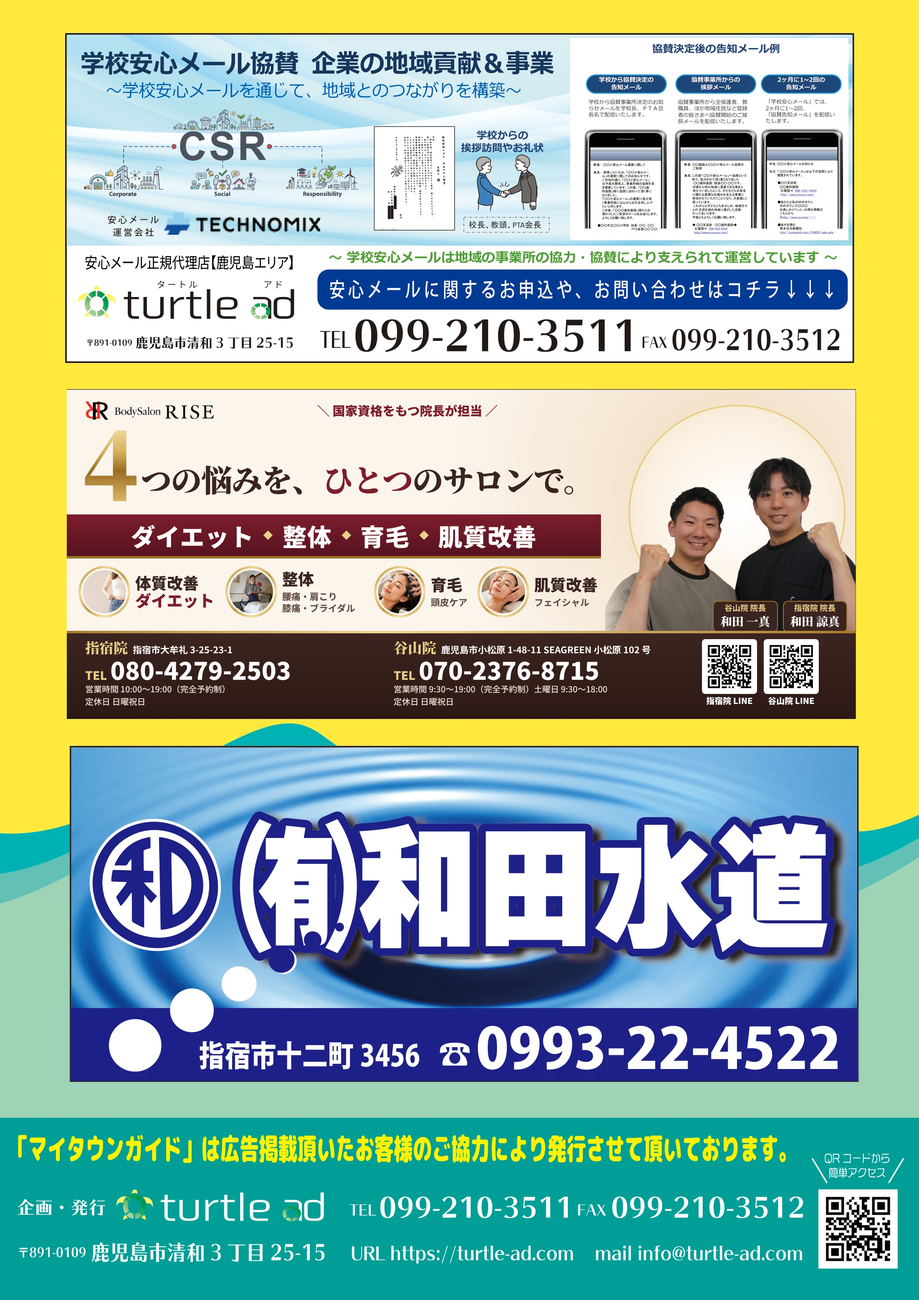
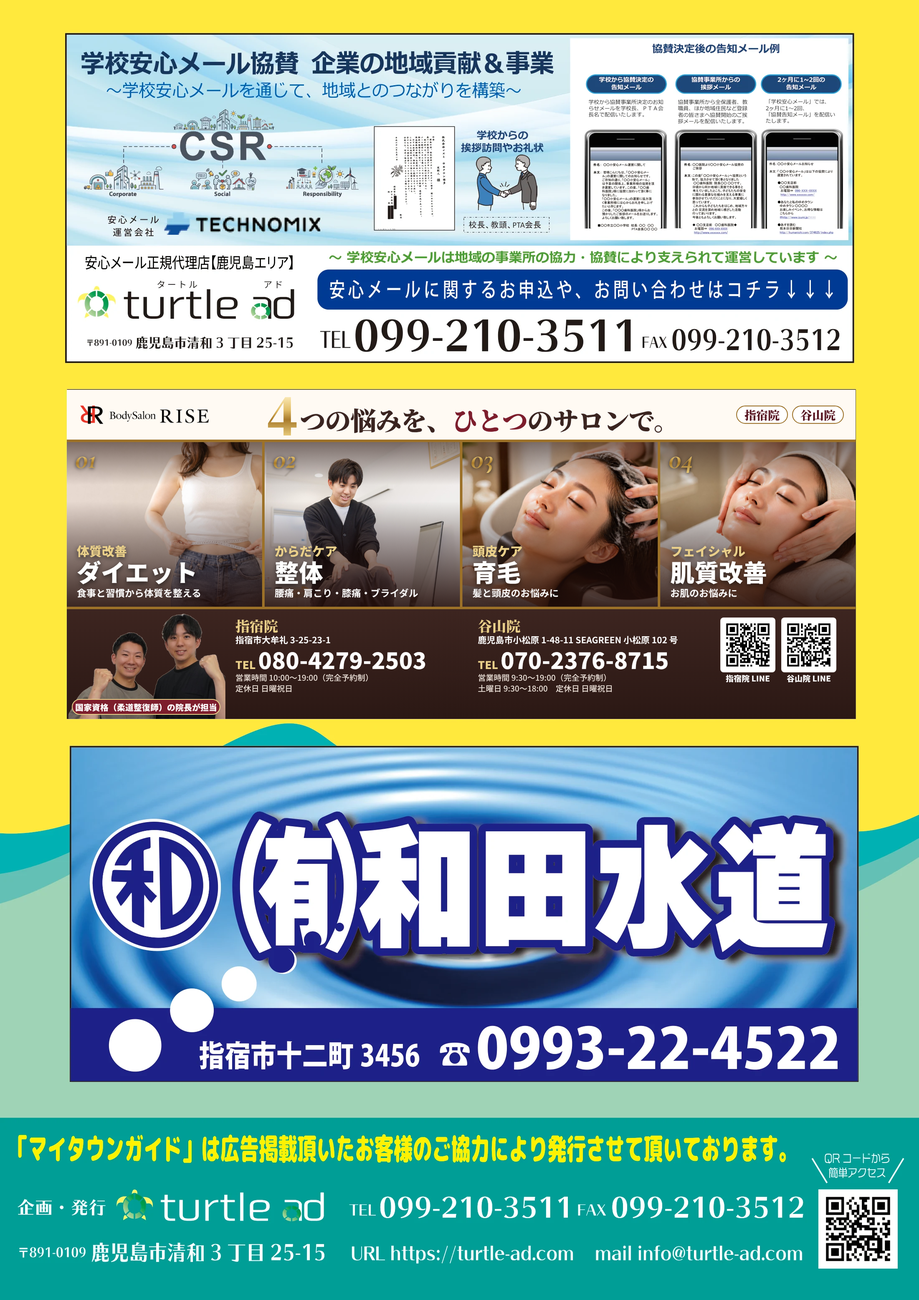
ライズ様：1ページ広告を4本柱の4分割＋中央バッジ＋院長紹介に組み替え、裏表紙の帯も写真4マスの形に
- 上半分：2×2の写真いっぱいの4分割、大きな番号と太い見出し、中央に「4つの悩みを、ひとつのサロンで。」の丸バッジ
- 中段：院長2人の写真、名前・担当院・柔道整復師・ひと言、施術中の写真
- 帯：横並びの写真4マス、余白を詰めた
- 比較画像・確認事項を更新

Claude-Session: https://claude.ai/code/session_01AEUD4z4Xri7e87iKXPW3R9

Changed region(s): [[0.0618, 0.2805, 0.9577, 0.5611]]

diff --git a/sites/rise/mytownguide/ad-1page.html b/sites/rise/mytownguide/ad-1page.html
@@ -3,134 +3,127 @@
 <head>
 <meta charset="utf-8">
 <title>RISE 1ページ広告</title>
-<link href="https://fonts.googleapis.com/css2?family=Noto+Sans+JP:wght@500;700;900&family=Noto+Serif+JP:wght@600;900&family=Cormorant+Garamond:ital,wght@1,600&display=block" rel="stylesheet">
+<link href="https://fonts.googleapis.com/css2?family=Noto+Sans+JP:wght@500;700;900&family=Noto+Serif+JP:wght@600;900&family=Cormorant+Garamond:ital,wght@1,600;1,700&display=block" rel="stylesheet">
 <style>
 /* 1100 x 1556 px（A4比率）。deviceScaleFactor 2 で 2200 x 3112 に書き出し */
-:root{--wine:#7d1d2c;--wine-d:#561320;--brown:#3a2420;--ink:#2e1e1a;--gold1:#9c7128;--gold2:#e9cf8a;--gold3:#fff3cf;--cream:#fbf5ec;--cream2:#f3e6d3}
+:root{--wine:#7d1d2c;--wine-d:#561320;--brown:#3a2420;--ink:#2e1e1a;--gold1:#9c7128;--gold2:#e9cf8a;--cream:#fbf5ec;--cream2:#f3e6d3}
 *{box-sizing:border-box;margin:0;padding:0}
 body{width:1100px;height:1556px;overflow:hidden;position:relative;background:var(--cream);font-family:"Noto Sans JP",sans-serif;color:var(--ink)}
-.serif{font-family:"Noto Serif JP",serif}
 .goldbg{background:linear-gradient(135deg,#a77a2c 0%,#f1d999 28%,#c39a48 52%,#f6e3a6 74%,#a77a2c 100%)}
-.goldtxt{background:linear-gradient(180deg,#f7e7b4 0%,#d8b25c 38%,#9a6c22 62%,#d9b867 100%);-webkit-background-clip:text;background-clip:text;color:transparent}
-
-/* 背景の飾り */
-.bgdeco{position:absolute;inset:0;z-index:0;
- background:radial-gradient(circle at 88% 14%,#f1dcc0 0,#f1dcc000 46%),radial-gradient(circle at 6% 52%,#f4e3cc 0,#f4e3cc00 36%)}
+.goldtxt{background:linear-gradient(180deg,#fff1c4 0%,#e3bf6a 38%,#a87a2a 62%,#e6c878 100%);-webkit-background-clip:text;background-clip:text;color:transparent}
 
 /* ヘッダー */
-.head{position:absolute;left:0;right:0;top:0;height:92px;display:flex;align-items:center;justify-content:space-between;padding:0 44px;z-index:3}
-.head img{height:40px;display:block}
-.inns{display:flex;gap:10px}
-.inns span{font-family:"Noto Serif JP",serif;font-weight:900;font-size:24px;color:var(--wine-d);border:2px solid var(--gold1);padding:3px 18px;border-radius:40px;background:#fffaf2}
-.head::after{content:"";position:absolute;left:44px;right:44px;bottom:0;height:2px;background:linear-gradient(90deg,transparent,var(--gold1) 12%,var(--gold2) 50%,var(--gold1) 88%,transparent)}
+.head{position:absolute;left:0;right:0;top:0;height:64px;display:flex;align-items:center;justify-content:space-between;padding:0 30px;background:#fffaf3}
+.head img{height:34px;display:block}
+.head .lead{font-weight:900;font-size:19px;color:var(--wine)}
+.inns{display:flex;gap:8px}
+.inns span{font-family:"Noto Serif JP",serif;font-weight:900;font-size:20px;color:var(--wine-d);border:2px solid var(--gold1);padding:1px 14px;border-radius:40px;background:#fff}
 
-/* ヒーロー */
-.hero{position:absolute;left:0;right:0;top:92px;height:520px;z-index:2}
-.lead{position:absolute;left:46px;top:34px;font-weight:900;font-size:27px;color:var(--wine);letter-spacing:.04em}
-.lead i{font-style:normal;color:var(--gold1);margin:0 6px}
-.h1{position:absolute;left:40px;top:78px;font-family:"Noto Serif JP",serif;font-weight:900;color:var(--brown);line-height:1}
-.h1 .l1{display:flex;align-items:flex-end;white-space:nowrap}
-.h1 .num{font-size:250px;line-height:.86;margin-right:4px;letter-spacing:-.02em;filter:drop-shadow(0 4px 0 #6b4a1a33)}
-.h1 .t1{font-size:68px;padding-bottom:18px;letter-spacing:-.01em}
-.h1 .l2{font-size:68px;margin-top:20px;white-space:nowrap;letter-spacing:-.02em}
-.h1 .l2 b{color:var(--wine)}
-.medals{position:absolute;left:44px;top:392px;display:flex;gap:14px}
-.medal{width:108px;height:108px;border-radius:50%;display:grid;place-items:center;text-align:center;position:relative;box-shadow:0 6px 14px rgba(90,60,20,.28)}
-.medal::before{content:"";position:absolute;inset:6px;border-radius:50%;border:2px solid #fff7dc;opacity:.9}
-.medal b{font-family:"Noto Serif JP",serif;font-weight:900;font-size:20px;line-height:1.25;color:#4a2a12}
-.medal b small{display:block;font-size:15px;font-weight:900}
-.staff{position:absolute;right:-4px;top:40px;width:560px;height:480px;overflow:hidden}
-.staff .ring{position:absolute;right:18px;top:20px;width:440px;height:440px;border-radius:50%;background:radial-gradient(circle,#fff 0,#fbf1e2 60%,#f0dcc0 100%);border:3px solid var(--gold2)}
-.staff img{position:absolute;right:-14px;bottom:-4px;width:560px;-webkit-mask-image:linear-gradient(90deg,transparent 0,#000 14%);mask-image:linear-gradient(90deg,transparent 0,#000 14%)}
-.names{position:absolute;right:26px;top:548px;display:flex;gap:12px;z-index:4}
-.names div{background:var(--brown);color:#fff;border-radius:10px;padding:6px 14px 7px;text-align:center;line-height:1.25;border:2px solid var(--gold1)}
-.names small{display:block;font-size:15px;font-weight:700;color:var(--gold2)}
-.names b{font-family:"Noto Serif JP",serif;font-size:25px}
+/* 4分割 */
+.grid{position:absolute;left:0;right:0;top:64px;height:700px;display:grid;grid-template-columns:1fr 1fr;grid-template-rows:1fr 1fr;gap:6px;background:var(--gold1);border-top:6px solid var(--gold1);border-bottom:6px solid var(--gold1)}
+.cell{position:relative;overflow:hidden}
+.cell img{position:absolute;inset:0;width:100%;height:100%;object-fit:cover}
+.cell::after{content:"";position:absolute;inset:0}
+.c1::after,.c2::after{background:linear-gradient(180deg,rgba(35,14,10,.82) 0%,rgba(35,14,10,.35) 38%,rgba(35,14,10,0) 60%)}
+.c3::after,.c4::after{background:linear-gradient(0deg,rgba(35,14,10,.85) 0%,rgba(35,14,10,.35) 40%,rgba(35,14,10,0) 62%)}
+.tx{position:absolute;z-index:2;color:#fff}
+.c1 .tx{left:26px;top:16px}.c2 .tx{right:26px;top:16px;text-align:right}
+.c3 .tx{left:26px;bottom:20px}.c4 .tx{right:26px;bottom:20px;text-align:right}
+.no{filter:drop-shadow(0 2px 3px rgba(0,0,0,.7));font-family:"Cormorant Garamond",serif;font-style:italic;font-weight:700;font-size:74px;line-height:.9;display:block}
+.tx h3{font-weight:900;font-size:54px;line-height:1.05;letter-spacing:-.01em;text-shadow:0 3px 10px rgba(0,0,0,.55)}
+.tx h3 small{display:block;font-size:30px;color:var(--gold2);margin-bottom:2px}
+.tx p{display:inline-block;margin-top:8px;background:var(--wine);color:#fff;font-weight:700;font-size:19px;line-height:1.3;padding:5px 14px;border-radius:30px;border:1.5px solid var(--gold2)}
+/* 中央バッジ */
+.badge{position:absolute;left:50%;top:417px;width:356px;height:356px;margin:-178px 0 0 -178px;border-radius:50%;z-index:5;padding:9px;box-shadow:0 10px 30px rgba(0,0,0,.45)}
+.badge .in{width:100%;height:100%;border-radius:50%;background:radial-gradient(circle at 50% 35%,#fffaf1 0,#fbf1e2 60%,#f2e0c6 100%);display:flex;flex-direction:column;align-items:center;justify-content:center;text-align:center;font-family:"Noto Serif JP",serif;font-weight:900;color:var(--brown);border:2px solid #fff6dc}
+.badge .r1{display:flex;align-items:flex-end;line-height:1}
+.badge .n4{font-size:150px;line-height:.82;margin-right:2px}
+.badge .t1{font-size:40px;padding-bottom:12px;letter-spacing:-.03em}
+.badge .t2{font-size:42px;line-height:1.15;margin-top:8px;letter-spacing:-.03em}
+.badge .t2 b{color:var(--wine)}
+.badge .t3{margin-top:10px;font-family:"Noto Sans JP";font-size:15px;font-weight:900;color:#fff;background:var(--wine);padding:3px 14px;border-radius:20px;letter-spacing:.04em}
 
 /* 4本柱の帯 */
-.band{position:absolute;left:0;right:0;top:612px;height:96px;z-index:3;display:flex;align-items:center;justify-content:center;background:linear-gradient(180deg,var(--wine) 0,var(--wine-d) 100%);box-shadow:0 6px 0 var(--gold1)}
-.band span{font-weight:900;font-size:60px;color:#fff;letter-spacing:.03em;text-shadow:0 3px 0 rgba(0,0,0,.25)}
-.band i{display:inline-block;width:14px;height:14px;background:var(--gold2);transform:rotate(45deg);margin:0 26px}
+.band{position:absolute;left:0;right:0;top:770px;height:66px;display:flex;align-items:center;justify-content:center;background:linear-gradient(180deg,var(--wine),var(--wine-d))}
+.band span{font-weight:900;font-size:42px;color:#fff;letter-spacing:.03em}
+.band i{display:inline-block;width:11px;height:11px;background:var(--gold2);transform:rotate(45deg);margin:0 22px}
 
-/* メニュー */
-.menu{position:absolute;left:30px;right:30px;top:728px;height:440px;z-index:2}
-.mtitle{text-align:center;font-family:"Noto Serif JP",serif;font-weight:900;font-size:30px;color:var(--brown);letter-spacing:.08em}
-.mtitle::before,.mtitle::after{content:"";display:inline-block;width:110px;height:2px;background:var(--gold1);vertical-align:middle;margin:0 18px}
-.mrow{display:grid;grid-template-columns:repeat(4,1fr);gap:14px;margin-top:20px}
-.m{text-align:center;position:relative}
-.m .ph{width:204px;height:204px;margin:0 auto;border-radius:50%;padding:7px;position:relative}
-.m .ph img{width:100%;height:100%;border-radius:50%;object-fit:cover;display:block;border:4px solid #fff}
-.m .no{position:absolute;left:8px;top:0;width:62px;height:62px;border-radius:50%;background:var(--wine);color:#fff;display:grid;place-items:center;font-family:"Cormorant Garamond",serif;font-style:italic;font-weight:600;font-size:34px;border:3px solid var(--gold2);z-index:2}
-.m h3{margin-top:10px;font-weight:900;font-size:41px;line-height:1.12;color:var(--brown);letter-spacing:-.01em}
-.m h3 em{font-style:normal;color:var(--wine)}
-.m p{min-width:200px;margin-top:8px;display:inline-block;font-weight:700;font-size:18px;line-height:1.35;color:#fff;background:var(--brown);padding:5px 14px;border-radius:30px}
+/* 施術する人 */
+.staffsec{position:absolute;left:0;right:0;top:836px;height:350px}
+.sttl{position:absolute;left:30px;top:14px;font-family:"Noto Serif JP",serif;font-weight:900;font-size:30px;color:var(--brown)}
+.sttl b{color:var(--wine)}
+.sttl small{font-family:"Noto Sans JP";font-size:17px;font-weight:900;color:#fff;background:var(--gold1);padding:2px 12px;border-radius:20px;margin-left:10px;vertical-align:6px}
+.photo2{position:absolute;left:0;top:56px;width:520px;height:294px;overflow:hidden}
+.photo2 .ring{position:absolute;left:46px;top:6px;width:430px;height:430px;border-radius:50%;background:radial-gradient(circle,#fff 0,#fbf1e2 60%,#f0dcc0 100%);border:3px solid var(--gold2)}
+.photo2 img.p{position:absolute;left:14px;bottom:-8px;width:500px;-webkit-mask-image:linear-gradient(90deg,transparent 0,#000 10%);mask-image:linear-gradient(90deg,transparent 0,#000 10%)}
+.medal{position:absolute;width:92px;height:92px;border-radius:50%;display:grid;place-items:center;text-align:center;box-shadow:0 5px 12px rgba(90,60,20,.3);z-index:3}
+.medal b{font-family:"Noto Serif JP",serif;font-weight:900;font-size:17px;line-height:1.2;color:#4a2a12}
+.medal b small{display:block;font-size:12.5px}
+.m1{left:22px;top:66px}
+.prof{position:absolute;left:520px;right:26px;top:58px;display:grid;grid-template-columns:1fr 1fr;gap:12px}
+.pc{background:#fff;border-radius:12px;border:2px solid var(--gold2);overflow:hidden;box-shadow:0 4px 12px rgba(60,30,20,.1)}
+.pc .ph{height:150px;overflow:hidden}
+.pc .ph img{width:100%;height:100%;object-fit:cover;display:block}
+.pc .bd{padding:8px 12px 10px}
+.pc .in{font-size:14px;font-weight:900;color:#fff;background:var(--wine);display:inline-block;padding:1px 10px;border-radius:14px}
+.pc .nm{font-family:"Noto Serif JP",serif;font-weight:900;font-size:30px;line-height:1.15;color:var(--brown);margin-top:3px}
+.pc .nm small{font-size:15px;margin-left:6px;color:var(--gold1)}
+.pc .q{font-size:15px;font-weight:700;line-height:1.45;color:#4b3a33;margin-top:4px}
+.pc .ql{font-size:12.5px;font-weight:700;color:var(--gold1);margin-top:3px}
 
 /* 下段：結果写真とQR */
-.low{grid-template-columns:400px 1fr!important;position:absolute;left:36px;right:36px;top:1196px;height:150px;display:grid;grid-template-columns:420px 1fr;gap:18px;z-index:2}
+.low{position:absolute;left:26px;right:26px;top:1196px;height:150px;display:grid;grid-template-columns:400px 1fr;gap:16px}
 .res{position:relative}
-.res img{width:100%;height:138px;object-fit:cover;border-radius:12px;border:3px solid #fff;box-shadow:0 4px 12px rgba(60,30,20,.2)}
-.res .cap{position:absolute;left:10px;top:-14px;background:var(--wine);color:#fff;font-weight:900;font-size:17px;padding:3px 14px;border-radius:20px}
-.res .note{font-size:13px;color:#6b5a50;margin-top:2px}
-.qr{background:#fff;border-radius:14px;border:2px solid var(--gold2);display:flex;align-items:center;padding:10px 14px;gap:12px;box-shadow:0 4px 12px rgba(60,30,20,.12)}
+.res img{width:100%;height:136px;object-fit:cover;border-radius:12px;border:3px solid #fff;box-shadow:0 4px 12px rgba(60,30,20,.2)}
+.res .cap{position:absolute;left:10px;top:-13px;background:var(--wine);color:#fff;font-weight:900;font-size:16px;padding:2px 14px;border-radius:20px}
+.res .note{font-size:12px;color:#6b5a50}
+.qr{background:#fff;border-radius:14px;border:2px solid var(--gold2);display:flex;align-items:center;padding:8px 14px;gap:12px;box-shadow:0 4px 12px rgba(60,30,20,.12);height:146px}
 .qr .msg{font-weight:900;font-size:23px;line-height:1.28;color:var(--wine);width:120px;flex:none}
-.qr .msg small{display:block;font-size:15px;color:var(--ink);font-weight:700;margin-top:4px}
 .qg{display:flex;gap:8px;flex:1;justify-content:space-between}
 .qg .q{text-align:center}
-.qg .q img{width:100px;height:100px;display:block;image-rendering:pixelated}
-.qg .q span{display:block;font-weight:900;font-size:14px;line-height:1.2;margin-top:3px;color:var(--brown)}
+.qg .q img{width:98px;height:98px;display:block}
+.qg .q span{display:block;font-weight:900;font-size:13px;line-height:1.2;margin-top:3px;color:var(--brown)}
 .qg .q span.ln{color:#05a046}
 .qg .sep{width:2px;background:var(--cream2)}
 
 /* フッター */
-.foot{position:absolute;left:0;right:0;bottom:0;height:196px;border-top:5px solid #c9a24f;background:linear-gradient(180deg,#3d2520,#2b1814);color:#fff;z-index:2;display:grid;grid-template-columns:1fr 1fr;padding:16px 44px 0}
-.foot::before{content:"";position:absolute;left:0;right:0;top:0;height:6px}
-.foot .c{padding-right:20px}
+.foot{position:absolute;left:0;right:0;bottom:0;height:200px;background:linear-gradient(180deg,#3d2520,#2b1814);color:#fff;display:grid;grid-template-columns:1fr 1fr;padding:16px 36px 0;border-top:5px solid #c9a24f}
 .foot .c+.c{padding-left:30px;border-left:1px solid #ffffff33}
-.foot h4{font-family:"Noto Serif JP",serif;font-weight:900;font-size:28px;color:var(--gold2);display:flex;align-items:baseline;gap:12px}
-.foot h4 small{font-family:"Noto Sans JP";font-size:17px;color:#fff;font-weight:700}
+.foot h4{font-family:"Noto Serif JP",serif;font-weight:900;font-size:28px;color:var(--gold2)}
 .foot .ad{font-size:17px;font-weight:700;margin-top:2px}
-.foot .tel{font-weight:900;font-size:50px;line-height:1.1;letter-spacing:.01em;margin-top:2px}
+.foot .tel{font-weight:900;font-size:50px;line-height:1.1;margin-top:2px}
 .foot .tel small{font-size:24px;margin-right:6px;color:var(--gold2)}
 .foot .hr{font-size:16px;line-height:1.5;color:#eadfd6;font-weight:500}
-.tagline{display:none;position:absolute;left:0;right:0;bottom:200px;height:36px;z-index:2;background:linear-gradient(90deg,#a77a2c,#f1d999 30%,#c39a48 60%,#f6e3a6 85%,#a77a2c);display:flex;align-items:center;justify-content:center;gap:16px}
-.tagline span{font-weight:900;font-size:19px;color:#3a2410;letter-spacing:.06em}
 </style>
 </head>
 <body>
-<div class="bgdeco"></div>
-
 <div class="head">
   <img src="img/logo.png" alt="Body Salon RISE">
+  <div class="lead">＼ ダイエット・整体・育毛・肌質改善 ／</div>
   <div class="inns"><span>指宿院</span><span>谷山院</span></div>
 </div>
 
-<div class="hero">
-  <div class="lead"><i>＼</i>国家資格をもつ院長が、ていねいに担当<i>／</i></div>
-  <div class="h1">
-    <div class="l1"><span class="num goldtxt">4</span><span class="t1">つの悩みを、</span></div>
-    <div class="l2"><b>ひとつ</b>のサロンで。</div>
-  </div>
-  <div class="medals">
-    <div class="medal goldbg"><b>国家資格<small>柔道整復師</small></b></div>
-    <div class="medal goldbg"><b>完全<br>予約制</b></div>
-    <div class="medal goldbg"><b>2院<small>指宿・谷山</small></b></div>
-  </div>
-  <div class="staff"><div class="ring"></div><img src="img/inchou-cut.png" alt="院長2名"></div>
+<div class="grid">
+  <div class="cell c1"><img src="../img/ai-waist.jpg" style="object-position:62% 45%" alt=""><div class="tx"><span class="no goldtxt">01</span><h3><small>体質改善</small>ダイエット</h3><p>食事と習慣から体質を整える</p></div></div>
+  <div class="cell c2"><img src="../img/r-treat3.jpg" style="object-position:40% 40%" alt=""><div class="tx"><span class="no goldtxt">02</span><h3><small>からだケア</small>整体</h3><p>腰痛・肩こり・膝痛・ブライダル</p></div></div>
+  <div class="cell c3"><img src="../img/ikumou.jpg" style="object-position:55% 35%" alt=""><div class="tx"><span class="no goldtxt">03</span><h3><small>頭皮ケア</small>育毛</h3><p>髪と頭皮のお悩みに</p></div></div>
+  <div class="cell c4"><img src="../img/hada.jpg" style="object-position:45% 40%" alt=""><div class="tx"><span class="no goldtxt">04</span><h3><small>フェイシャル</small>肌質改善</h3><p>お肌のお悩みに</p></div></div>
 </div>
-<div class="names">
-  <div><small>谷山院 院長</small><b>和田 一真</b></div>
-  <div><small>指宿院 院長</small><b>和田 諒真</b></div>
-</div>
+<div class="badge goldbg"><div class="in">
+  <div class="r1"><span class="n4 goldtxt">4</span><span class="t1">つの悩みを、</span></div>
+  <div class="t2"><b>ひとつ</b>の<br>サロンで。</div>
+  <div class="t3">指宿・谷山の2院</div>
+</div></div>
 
 <div class="band"><span>ダイエット</span><i></i><span>整体</span><i></i><span>育毛</span><i></i><span>肌質改善</span></div>
 
-<div class="menu">
-  <div class="mtitle">RISEのメニュー</div>
-  <div class="mrow">
-    <div class="m"><div class="ph goldbg"><img src="img/m-diet.jpg" alt=""></div><div class="no">01</div><h3>体質改善<br><em>ダイエット</em></h3><p>食事と習慣から<br>体質を整える</p></div>
-    <div class="m"><div class="ph goldbg"><img src="img/m-seitai.jpg" alt=""></div><div class="no">02</div><h3>整体<br><em>からだ</em>ケア</h3><p>腰痛・肩こり・膝痛<br>ブライダル</p></div>
-    <div class="m"><div class="ph goldbg"><img src="img/m-ikumou.jpg" alt=""></div><div class="no">03</div><h3>育毛<br><em>頭皮</em>ケア</h3><p>髪と頭皮の<br>お悩みに</p></div>
-    <div class="m"><div class="ph goldbg"><img src="img/m-hada.jpg" alt=""></div><div class="no">04</div><h3>肌質改善<br><em>フェイシャル</em></h3><p>お肌の<br>お悩みに</p></div>
+<div class="staffsec">
+  <div class="sttl">施術するのは、<b>国家資格をもつ院長</b>です<small>柔道整復師</small></div>
+  <div class="photo2"><div class="ring"></div><img class="p" src="img/inchou-cut.png" alt="院長2名"></div>
+  <div class="medal goldbg m1"><b>国家資格<small>柔道整復師</small></b></div>
+  <div class="prof">
+    <div class="pc"><div class="ph"><img src="../img/r-treat.jpg" style="object-position:40% 40%" alt=""></div><div class="bd"><span class="in">谷山院 院長</span><div class="nm">和田 一真<small>柔道整復師</small></div><div class="q">「お悩みやご希望を、ていねいにうかがってから進めます。」</div></div></div>
+    <div class="pc"><div class="ph"><img src="../img/r-posture.jpg" style="object-position:30% 40%" alt=""></div><div class="bd"><span class="in">指宿院 院長</span><div class="nm">和田 諒真<small>柔道整復師</small></div><div class="q">「無理な提案や押しつけはせず、納得していただいてから施術します。」</div></div></div>
   </div>
 </div>
 
@@ -149,16 +142,8 @@ body{width:1100px;height:1556px;overflow:hidden;position:relative;background:var
 </div>
 
 <div class="foot">
-  <div class="c">
-    <h4>指宿院</h4><div class="ad">指宿市大牟礼 3-25-23-1</div>
-    <div class="tel"><small>TEL</small>080-4279-2503</div>
-    <div class="hr">営業時間 10:00～19:00（完全予約制）<br>定休日 日曜祝日</div>
-  </div>
-  <div class="c">
-    <h4>谷山院</h4><div class="ad">鹿児島市小松原 1-48-11 SEAGREEN 小松原 102 号</div>
-    <div class="tel"><small>TEL</small>070-2376-8715</div>
-    <div class="hr">営業時間 9:30～19:00（完全予約制）土曜日 9:30～18:00<br>定休日 日曜祝日</div>
-  </div>
+  <div class="c"><h4>指宿院</h4><div class="ad">指宿市大牟礼 3-25-23-1</div><div class="tel"><small>TEL</small>080-4279-2503</div><div class="hr">営業時間 10:00～19:00（完全予約制）<br>定休日 日曜祝日</div></div>
+  <div class="c"><h4>谷山院</h4><div class="ad">鹿児島市小松原 1-48-11 SEAGREEN 小松原 102 号</div><div class="tel"><small>TEL</small>070-2376-8715</div><div class="hr">営業時間 9:30～19:00（完全予約制）土曜日 9:30～18:00<br>定休日 日曜祝日</div></div>
 </div>
 </body>
 </html>

diff --git a/sites/rise/mytownguide/backcover-band.html b/sites/rise/mytownguide/backcover-band.html
@@ -3,70 +3,61 @@
 <head>
 <meta charset="utf-8">
 <title>RISE 裏表紙 帯広告</title>
-<link href="https://fonts.googleapis.com/css2?family=Noto+Sans+JP:wght@500;700;900&family=Noto+Serif+JP:wght@600;900&family=Cormorant+Garamond:ital,wght@1,600&display=block" rel="stylesheet">
+<link href="https://fonts.googleapis.com/css2?family=Noto+Sans+JP:wght@500;700;900&family=Noto+Serif+JP:wght@600;900&family=Cormorant+Garamond:ital,wght@1,700&display=block" rel="stylesheet">
 <style>
 /* 945 x 396 px。deviceScaleFactor 2 で 1890 x 792（今の裏表紙の枠と同じ比率） */
 :root{--wine:#7d1d2c;--wine-d:#561320;--brown:#3a2420;--ink:#2e1e1a;--gold1:#9c7128;--gold2:#e9cf8a;--cream:#fbf5ec}
 *{box-sizing:border-box;margin:0;padding:0}
-body{width:945px;height:396px;overflow:hidden;position:relative;font-family:"Noto Sans JP",sans-serif;color:var(--ink);
- background:radial-gradient(circle at 84% 30%,#f1dcc0 0,#f1dcc000 40%),var(--cream)}
-.goldbg{background:linear-gradient(135deg,#a77a2c 0%,#f1d999 28%,#c39a48 52%,#f6e3a6 74%,#a77a2c 100%)}
-.goldtxt{background:linear-gradient(180deg,#f7e7b4 0%,#d8b25c 38%,#9a6c22 62%,#d9b867 100%);-webkit-background-clip:text;background-clip:text;color:transparent}
-.logo{position:absolute;left:22px;top:14px;height:22px}
-.lead{position:absolute;left:300px;top:14px;font-weight:900;font-size:15px;color:var(--wine);white-space:nowrap}
-.h1{position:absolute;left:18px;top:38px;font-family:"Noto Serif JP",serif;font-weight:900;color:var(--brown);display:flex;align-items:flex-end;white-space:nowrap;line-height:1}
-.h1 .num{font-size:112px;line-height:.86;margin-right:2px}
-.h1 .tx{font-size:37px;padding-bottom:8px;letter-spacing:-.02em}
-.h1 .tx b{color:var(--wine)}
-.band{position:absolute;left:0;width:640px;top:150px;height:50px;background:linear-gradient(180deg,var(--wine),var(--wine-d));display:flex;align-items:center;justify-content:center;box-shadow:0 3px 0 var(--gold1)}
-.band span{font-weight:900;font-size:29px;color:#fff;letter-spacing:.02em}
-.band i{display:inline-block;width:8px;height:8px;background:var(--gold2);transform:rotate(45deg);margin:0 13px}
-.mrow{position:absolute;left:14px;width:620px;top:212px;display:grid;grid-template-columns:170px 172px 118px 150px;gap:6px}
-.m{display:flex;align-items:center;gap:6px}
-.m .ph{width:62px;height:62px;border-radius:50%;padding:3px;flex:none}
-.m .ph img{width:100%;height:100%;border-radius:50%;object-fit:cover;border:2px solid #fff;display:block}
-.m b{display:block;font-weight:900;font-size:19px;line-height:1.1;color:var(--brown);white-space:nowrap}
-.m b em{font-style:normal;color:var(--wine)}
-.m small{display:block;font-size:11px;white-space:nowrap;font-weight:700;line-height:1.3;margin-top:3px;color:#5b463d}
-.staff{position:absolute;right:0;top:0;width:300px;height:290px;overflow:hidden}
-.staff .ring{position:absolute;left:28px;top:18px;width:260px;height:260px;border-radius:50%;background:radial-gradient(circle,#fff 0,#fbf1e2 60%,#f0dcc0 100%);border:2px solid var(--gold2)}
-.staff img{position:absolute;right:-8px;bottom:-2px;width:318px;-webkit-mask-image:linear-gradient(90deg,transparent 0,#000 14%);mask-image:linear-gradient(90deg,transparent 0,#000 14%)}
-.names{position:absolute;right:10px;top:254px;display:flex;gap:6px}
-.names div{background:var(--brown);color:#fff;border-radius:6px;padding:2px 8px 3px;text-align:center;line-height:1.2;border:1.5px solid var(--gold1)}
-.names small{display:block;font-size:9.5px;font-weight:700;color:var(--gold2)}
-.names b{font-family:"Noto Serif JP",serif;font-size:14px}
-.foot{position:absolute;left:0;right:0;bottom:0;height:106px;background:linear-gradient(180deg,#3d2520,#2b1814);color:#fff;display:grid;grid-template-columns:1fr 1fr 168px;padding:10px 16px 0 22px;gap:14px}
-.foot::before{content:"";position:absolute;left:0;right:0;top:0;height:3px;background:linear-gradient(90deg,#a77a2c,#f1d999 40%,#a77a2c)}
+body{width:945px;height:396px;overflow:hidden;position:relative;font-family:"Noto Sans JP",sans-serif;color:var(--ink);background:var(--cream)}
+.goldtxt{background:linear-gradient(180deg,#fff1c4 0%,#e3bf6a 38%,#a87a2a 62%,#e6c878 100%);-webkit-background-clip:text;background-clip:text;color:transparent}
+.head{position:absolute;left:0;right:0;top:0;height:60px;display:flex;align-items:center;padding:0 14px 0 16px;gap:14px;background:#fffaf3}
+.head img{height:22px}
+.h1{font-family:"Noto Serif JP",serif;font-weight:900;color:var(--brown);display:flex;align-items:flex-end;white-space:nowrap;line-height:1;flex:1;justify-content:center}
+.h1 .n4{font-size:62px;line-height:.82;margin-right:2px}
+.h1 .t{font-size:31px;padding-bottom:4px;letter-spacing:-.02em}
+.h1 .t b{color:var(--wine)}
+.inns{display:flex;gap:5px}
+.inns span{font-family:"Noto Serif JP",serif;font-weight:900;font-size:14px;color:var(--wine-d);border:1.5px solid var(--gold1);padding:0 9px;border-radius:30px;background:#fff}
+.row{position:absolute;left:0;right:0;top:60px;height:204px;display:grid;grid-template-columns:repeat(4,1fr);gap:3px;background:var(--gold1);border-top:3px solid var(--gold1);border-bottom:3px solid var(--gold1)}
+.cell{position:relative;overflow:hidden}
+.cell img{position:absolute;inset:0;width:100%;height:100%;object-fit:cover}
+.cell::after{content:"";position:absolute;inset:0;background:linear-gradient(0deg,rgba(35,14,10,.88) 0%,rgba(35,14,10,.35) 42%,rgba(35,14,10,0) 64%),linear-gradient(180deg,rgba(35,14,10,.55) 0%,rgba(35,14,10,0) 26%)}
+.tx{position:absolute;left:12px;right:8px;bottom:9px;z-index:2;color:#fff}
+.no{font-family:"Cormorant Garamond",serif;font-style:italic;font-weight:700;font-size:34px;line-height:.9;filter:drop-shadow(0 1px 2px rgba(0,0,0,.7));position:absolute;left:10px;top:6px;z-index:2}
+.tx h3{font-weight:900;font-size:29px;line-height:1.05;text-shadow:0 2px 6px rgba(0,0,0,.6);white-space:nowrap}
+.tx h3 small{display:block;font-size:15px;color:var(--gold2);margin-bottom:1px}
+.tx p{font-size:11.5px;font-weight:700;margin-top:4px;line-height:1.3}
+.foot{position:absolute;left:0;right:0;bottom:0;height:132px;background:linear-gradient(180deg,#3d2520,#2b1814);color:#fff;display:grid;grid-template-columns:190px 1fr 1fr 150px;gap:12px;padding:10px 12px 0 0}
+.staff{position:relative;overflow:hidden;margin-top:-10px}
+.staff img{position:absolute;left:0;bottom:-6px;width:200px}
+.staff span{position:absolute;left:6px;right:6px;bottom:5px;z-index:2;font-size:10px;font-weight:900;text-align:center;background:var(--wine);border:1px solid var(--gold2);border-radius:10px;padding:1px 0}
 .foot h4{font-family:"Noto Serif JP",serif;font-weight:900;font-size:17px;color:var(--gold2);line-height:1.2}
-.foot h4 small{font-family:"Noto Sans JP";font-size:11px;color:#fff;font-weight:700;margin-left:6px}
-.foot .tel{font-weight:900;font-size:29px;line-height:1.1;margin-top:1px;white-space:nowrap}
-.foot .tel small{font-size:14px;margin-right:4px;color:var(--gold2)}
-.foot .hr{font-size:10px;line-height:1.45;color:#eadfd6}
-.qr{display:flex;gap:8px;align-items:flex-start}
+.foot .ad{font-size:10.5px;font-weight:700;line-height:1.35}
+.foot .tel{font-weight:900;font-size:27px;line-height:1.15;white-space:nowrap}
+.foot .tel small{font-size:13px;margin-right:3px;color:var(--gold2)}
+.foot .hr{font-size:9.5px;line-height:1.45;color:#eadfd6}
+.qr{display:flex;gap:7px}
 .qr div{text-align:center}
 .qr img{width:66px;height:66px;display:block;background:#fff;padding:3px;border-radius:4px}
-.qr span{display:block;font-size:10px;font-weight:900;line-height:1.2;margin-top:2px}
+.qr span{display:block;font-size:9.5px;font-weight:900;line-height:1.2;margin-top:2px}
 </style>
 </head>
 <body>
-<img class="logo" src="img/logo.png" alt="Body Salon RISE">
-<div class="lead">＼ 国家資格をもつ院長が担当 ／</div>
-<div class="h1"><span class="num goldtxt">4</span><span class="tx">つの悩みを、<b>ひとつ</b>のサロンで。</span></div>
-<div class="band"><span>ダイエット</span><i></i><span>整体</span><i></i><span>育毛</span><i></i><span>肌質改善</span></div>
-<div class="mrow">
-  <div class="m"><div class="ph goldbg"><img src="img/m-diet.jpg" alt=""></div><div><b>体質改善<br><em>ダイエット</em></b></div></div>
-  <div class="m"><div class="ph goldbg"><img src="img/m-seitai.jpg" alt=""></div><div><b>整体</b><small>腰痛・肩こり<br>膝痛・ブライダル</small></div></div>
-  <div class="m"><div class="ph goldbg"><img src="img/m-ikumou.jpg" alt=""></div><div><b>育毛</b><small>頭皮ケア</small></div></div>
-  <div class="m"><div class="ph goldbg"><img src="img/m-hada.jpg" alt=""></div><div><b>肌質改善</b><small>フェイシャル</small></div></div>
+<div class="head">
+  <img src="img/logo.png" alt="Body Salon RISE">
+  <div class="h1"><span class="n4 goldtxt">4</span><span class="t">つの悩みを、<b>ひとつ</b>のサロンで。</span></div>
+  <div class="inns"><span>指宿院</span><span>谷山院</span></div>
 </div>
-<div class="staff"><div class="ring"></div><img src="img/inchou-cut.png" alt="院長2名"></div>
-<div class="names">
-  <div><small>谷山院 院長</small><b>和田 一真</b></div>
-  <div><small>指宿院 院長</small><b>和田 諒真</b></div>
+<div class="row">
+  <div class="cell"><img src="../img/ai-waist.jpg" style="object-position:62% 45%" alt=""><span class="no goldtxt">01</span><div class="tx"><h3><small>体質改善</small>ダイエット</h3><p>食事と習慣から体質を整える</p></div></div>
+  <div class="cell"><img src="../img/r-treat3.jpg" style="object-position:42% 40%" alt=""><span class="no goldtxt">02</span><div class="tx"><h3><small>からだケア</small>整体</h3><p>腰痛・肩こり・膝痛・ブライダル</p></div></div>
+  <div class="cell"><img src="../img/ikumou.jpg" style="object-position:48% 35%" alt=""><span class="no goldtxt">03</span><div class="tx"><h3><small>頭皮ケア</small>育毛</h3><p>髪と頭皮のお悩みに</p></div></div>
+  <div class="cell"><img src="../img/hada.jpg" style="object-position:50% 40%" alt=""><span class="no goldtxt">04</span><div class="tx"><h3><small>フェイシャル</small>肌質改善</h3><p>お肌のお悩みに</p></div></div>
 </div>
 <div class="foot">
-  <div><h4>指宿院<small>指宿市大牟礼 3-25-23-1</small></h4><div class="tel"><small>TEL</small>080-4279-2503</div><div class="hr">営業時間 10:00～19:00（完全予約制）<br>定休日 日曜祝日</div></div>
-  <div><h4>谷山院<small>鹿児島市小松原 1-48-11 SEAGREEN 小松原 102 号</small></h4><div class="tel"><small>TEL</small>070-2376-8715</div><div class="hr">営業時間 9:30～19:00（完全予約制）土曜日 9:30～18:00<br>定休日 日曜祝日</div></div>
+  <div class="staff"><img src="img/inchou-cut.png" alt="院長2名"><span>国家資格（柔道整復師）の院長が担当</span></div>
+  <div><h4>指宿院</h4><div class="ad">指宿市大牟礼 3-25-23-1</div><div class="tel"><small>TEL</small>080-4279-2503</div><div class="hr">営業時間 10:00～19:00（完全予約制）<br>定休日 日曜祝日</div></div>
+  <div><h4>谷山院</h4><div class="ad">鹿児島市小松原 1-48-11 SEAGREEN 小松原 102 号</div><div class="tel"><small>TEL</small>070-2376-8715</div><div class="hr">営業時間 9:30～19:00（完全予約制）<br>土曜日 9:30～18:00　定休日 日曜祝日</div></div>
   <div class="qr"><div><img src="img/qr-line-ibusuki.png" alt=""><span>指宿院 LINE</span></div><div><img src="img/qr-line-taniyama.png" alt=""><span>谷山院 LINE</span></div></div>
 </div>
 </body>

diff --git a/sites/rise/確認事項.md b/sites/rise/確認事項.md
@@ -36,3 +36,8 @@
 ## 6. その他
 - 広告の肩書きを「ダイエット・整体・育毛・肌質改善」に変えてよいか
 - HPの初回キャンペーン料金（ダイエット500円・整体1,000円・ブライダル整体3,500円・不調改善3,500円）を続けるか
+
+## 7. 広告の「施術するのは、国家資格をもつ院長です」欄（第3版で追加）
+- 院長カードの施術写真の組み合わせ：谷山院 和田一真＝r-treat.jpg（グレーのTシャツで膝の施術）、指宿院 和田諒真＝r-posture.jpg（黒いカーディガンで姿勢チェック）にしている。写っている人と名前が合っているか
+- ひと言：一真さん「お悩みやご希望を、ていねいにうかがってから進めます。」／諒真さん「無理な提案や押しつけはせず、納得していただいてから施術します。」（今のHPの文章から作成）。この言葉でよいか、ご本人の言葉に替えるか
+- お二人とも柔道整復師（国家資格）と表記してよいか（HPで確認できたのは諒真さん。一真さんも同じか）
